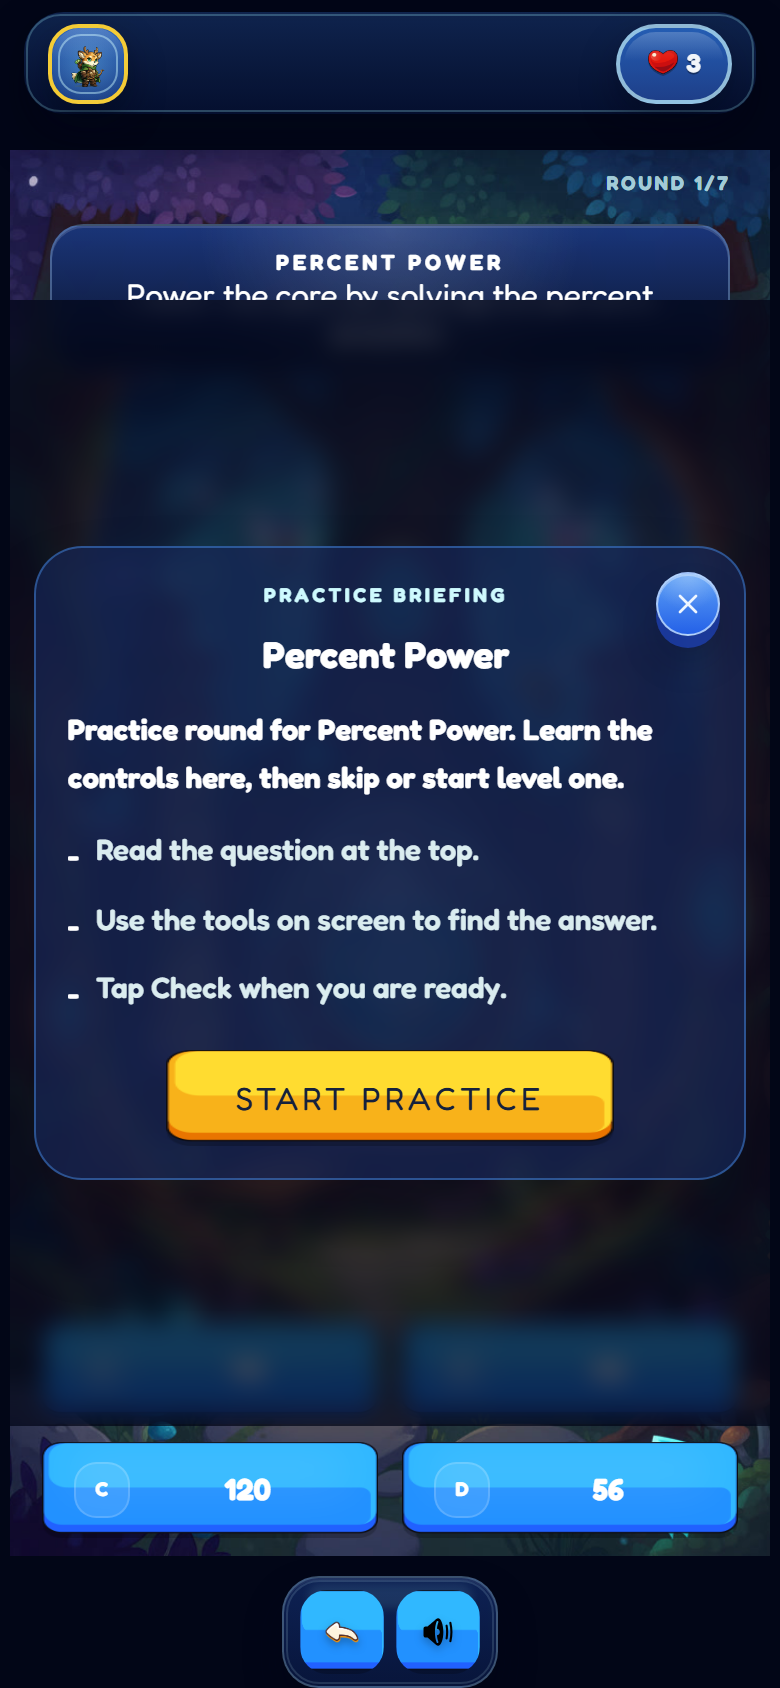
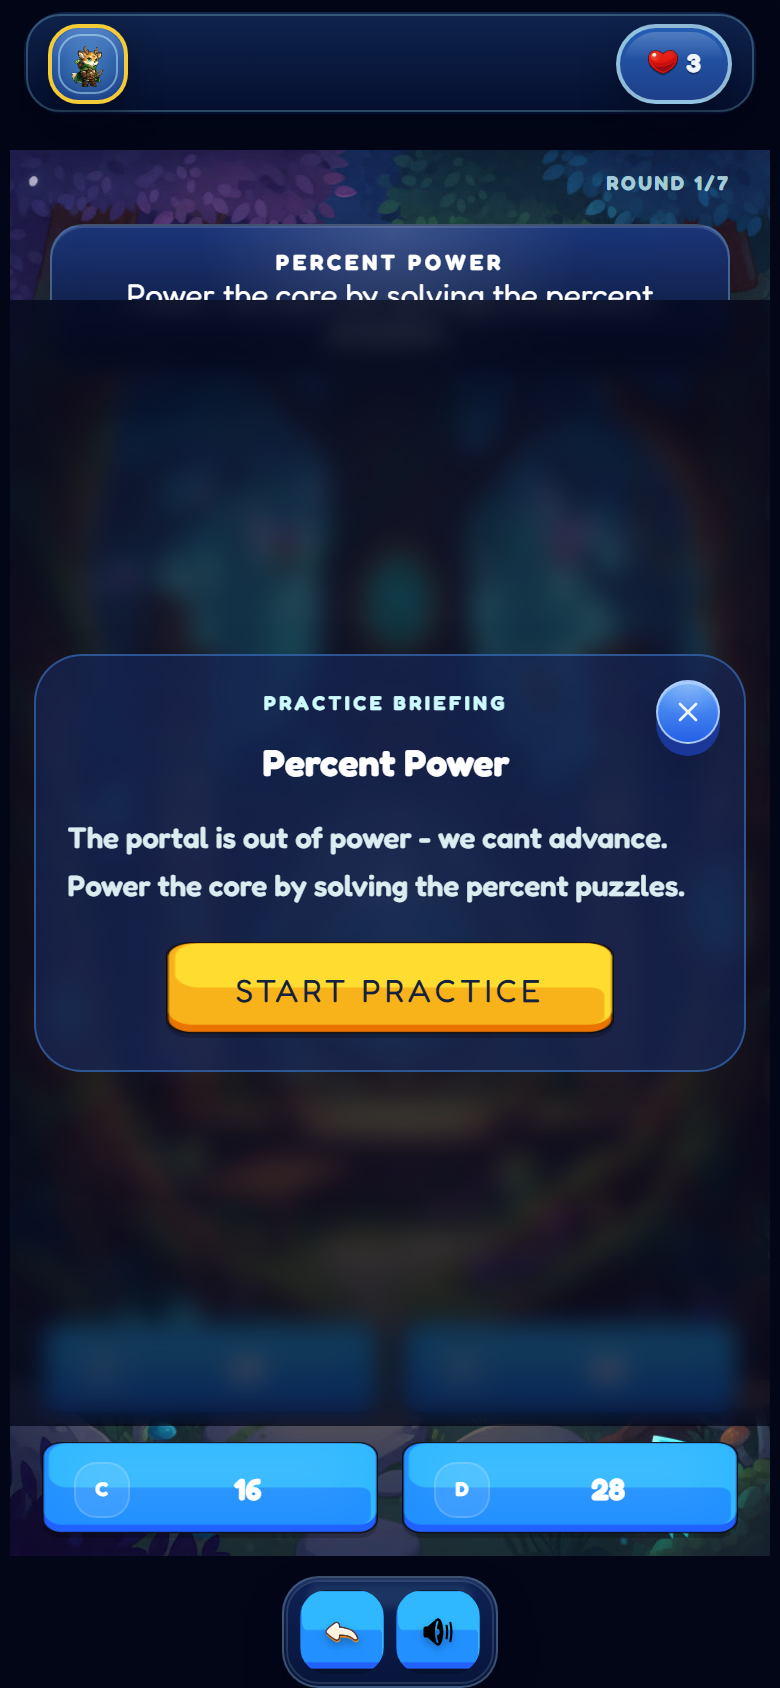
up

Changed region(s): [[0.0308, 0.3081, 0.9538, 0.7085], [0.2769, 0.8626, 0.3692, 0.8934], [0.7692, 0.8626, 0.8, 0.8934]]

diff --git a/src/games/RoundingRocketGame.tsx b/src/games/RoundingRocketGame.tsx
@@ -346,13 +346,18 @@ const RoundingRocketGame: React.FC<RoundingRocketGameShellProps> = ({
         open={showPracticeIntro}
         title="Rounding Rocket"
         body="Quick! We've managed to locate a cache of brainpower, but we need to keep it safe from those pesky Monster Minds. Help fuel the rocket by rounding numbers to blast the cache into space for safe keeping."
-        briefing={practiceBriefing ?? null}
+        briefing={null}
         onAction={() => setShowPracticeIntro(false)}
       />
 
       <div className="pointer-events-none fixed left-0 right-0 z-[60]" style={{ top: '4px' }}>
         <GameQuestionCard title={`Round to the nearest ${round.target}`}>
-          Round the numbers to fuel the rocket.
+          <span className="block text-[clamp(1.3rem,5.2vw,1.85rem)] font-black leading-none text-white drop-shadow-[0_2px_6px_rgba(2,6,23,0.6)]">
+            {round.value}
+          </span>
+          <span className="mt-1 block text-sm font-semibold leading-snug text-cyan-100/90">
+            Round the numbers to fuel the rocket.
+          </span>
         </GameQuestionCard>
       </div>
 

diff --git a/src/games/PercentPowerGame.tsx b/src/games/PercentPowerGame.tsx
@@ -382,7 +382,7 @@ const PercentPowerGame: React.FC<PercentPowerGameProps> = ({
           />
 
           <motion.div
-            className="absolute left-1/2 top-[56%] flex h-[11.5rem] w-[11.5rem] -translate-x-1/2 -translate-y-1/2 items-center justify-center rounded-full border border-cyan-100/30 bg-[radial-gradient(circle,rgba(125,211,252,0.34),rgba(14,116,144,0.22)_38%,rgba(8,20,40,0.12)_68%,rgba(8,20,40,0)_100%)] shadow-[0_0_45px_rgba(34,211,238,0.2)] md:h-[13rem] md:w-[13rem]"
+            className="absolute left-1/2 top-[65%] flex h-[11.5rem] w-[11.5rem] -translate-x-1/2 -translate-y-1/2 items-center justify-center rounded-full border border-cyan-100/30 bg-[radial-gradient(circle,rgba(125,211,252,0.34),rgba(14,116,144,0.22)_38%,rgba(8,20,40,0.12)_68%,rgba(8,20,40,0)_100%)] shadow-[0_0_45px_rgba(34,211,238,0.2)] md:h-[13rem] md:w-[13rem]"
             animate={
               feedback === 'correct'
                 ? { scale: [1, 1.06, 1], x: [0, -4, 4, -3, 3, 0], rotate: [0, 3, -3, 2, -2, 0] }
